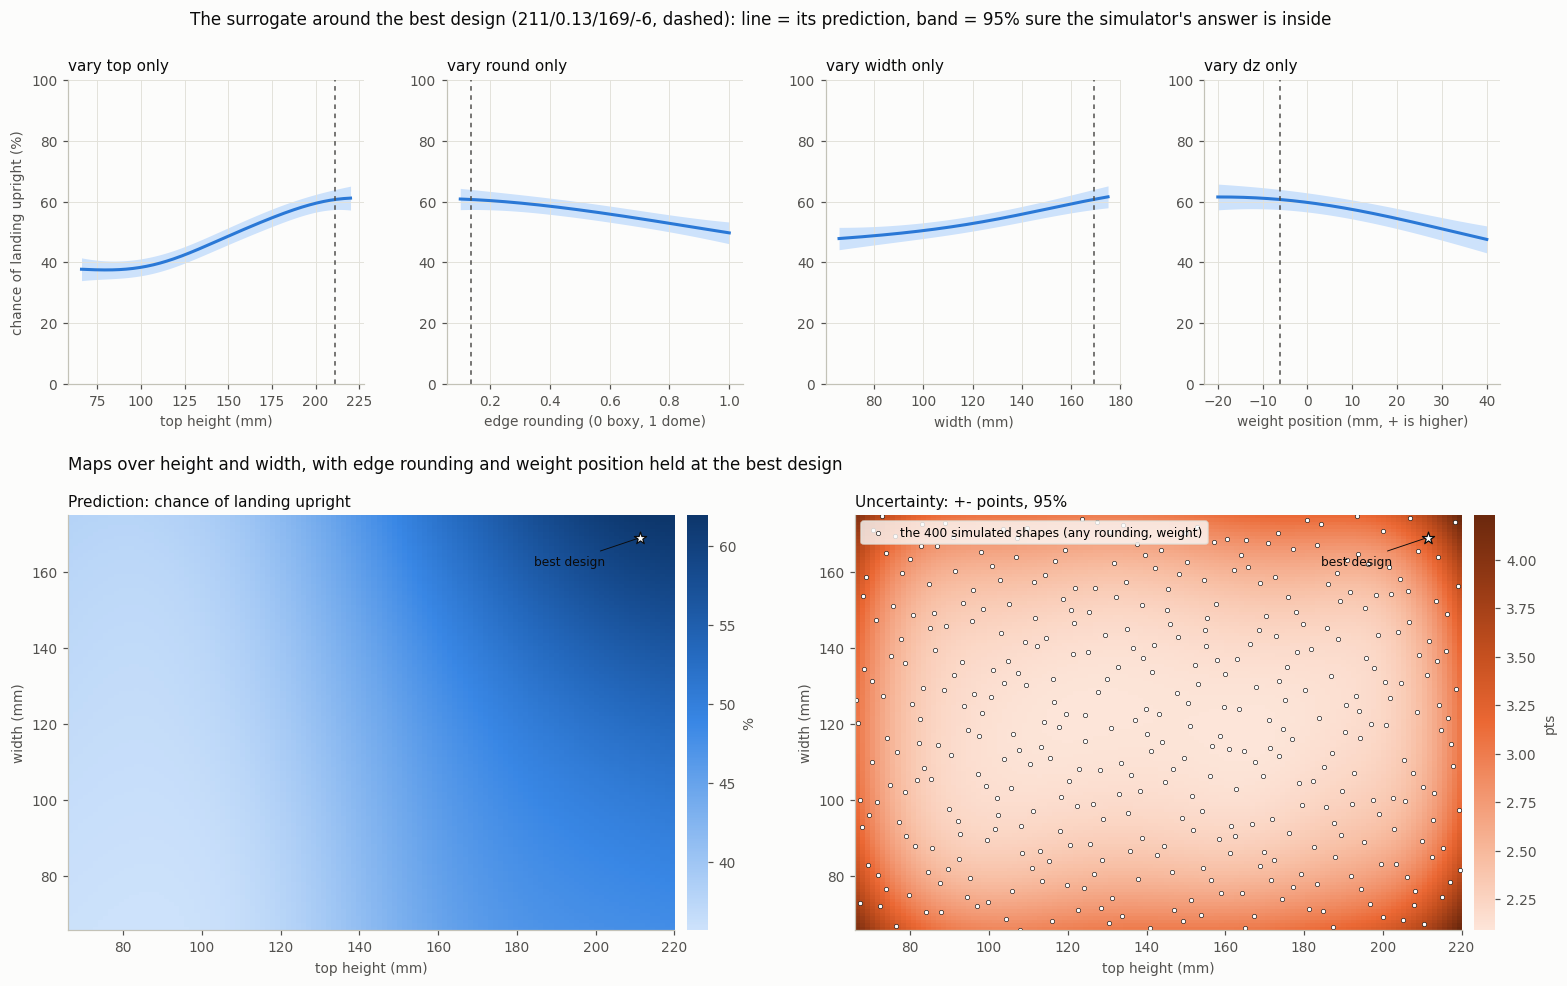
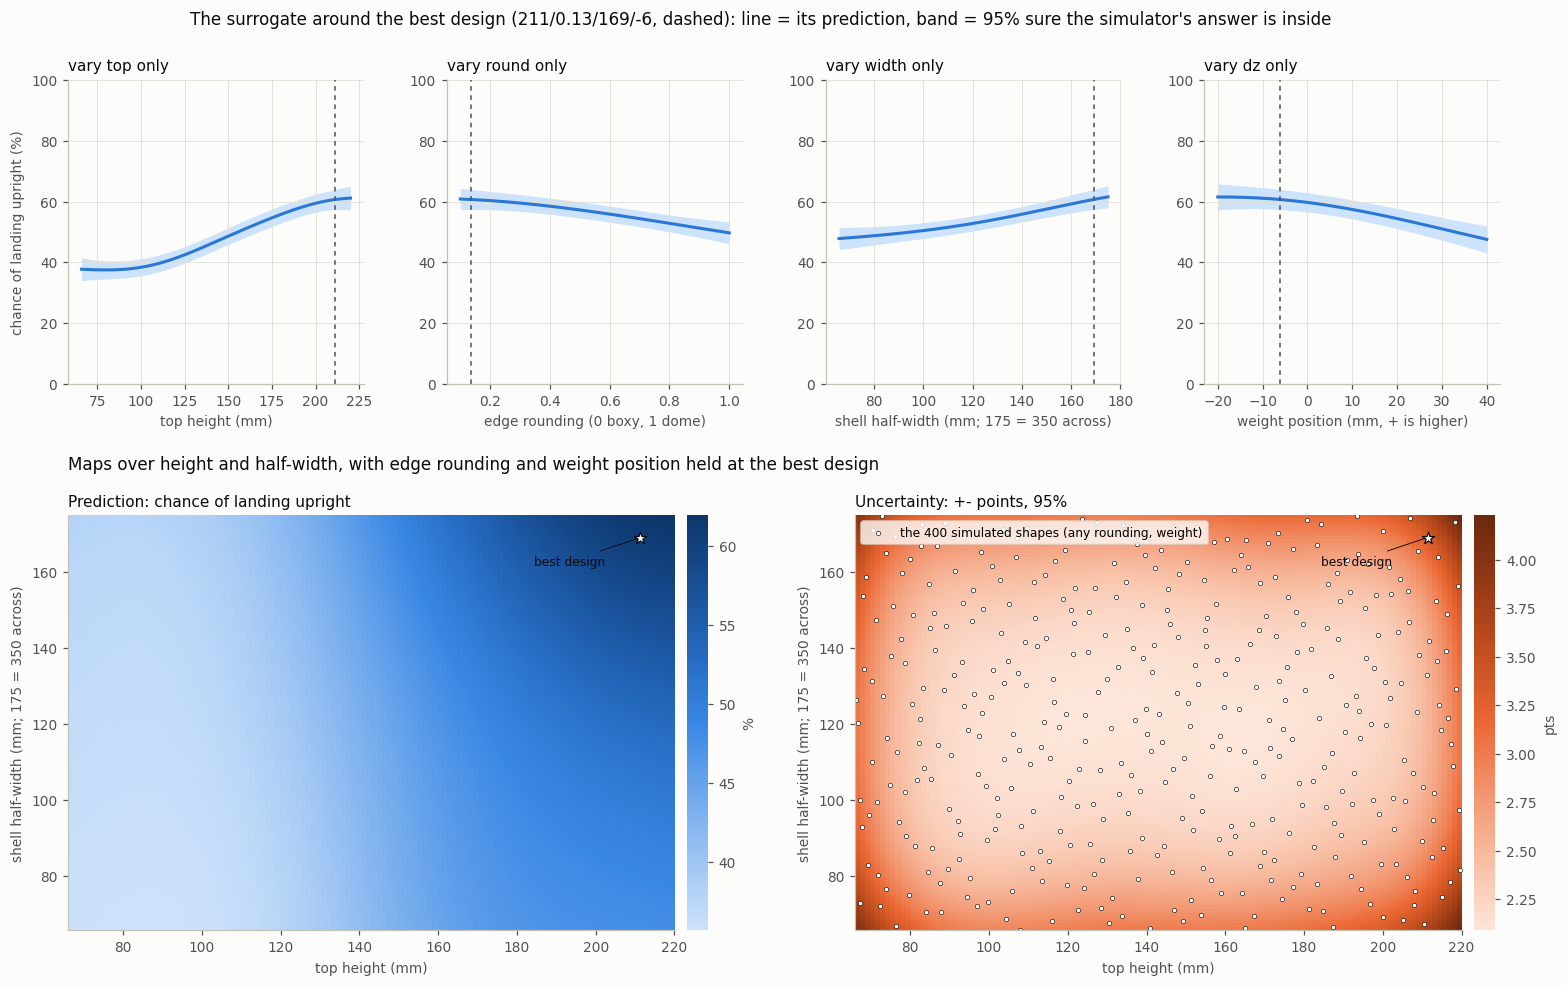
research (exploratory): the best design wider than the sweep allowed. P(upright) peaks at half-width 175-200 (0.68 with bounce) and falls past it (0.63 at 300-350): width removes side rests up to ~the body's length, then makes upside down more stable. The surrogate's extrapolation had the shape righ
Surrogate figure: "width" relabelled as the shell's half-width.

diff --git a/research/tumble/explore_wider.py b/research/tumble/explore_wider.py
@@ -1,0 +1,53 @@
+"""EXPLORATORY (2026-10-15): the best sweep design made wider than the sweep allowed (half-width past 175 mm).
+
+    python research/tumble/explore_wider.py -> research/results/explore_wider.json and .md
+
+The surrogate (surrogate_gp.py) put the best design in the corner of the searched range, with P(upright) still rising
+with width. This runs the simulator past the edge: the best design's top, round and dz, half-width 150-350 mm (the
+sweep stopped at 175: 350 mm across, wider than the 339.5 mm length), 1000 drops each, cover + bounce and cover + dead
+as in posthoc_sweep_v2. It also records what the surrogate guessed for each width before these runs, as a check of
+how it extrapolates.
+"""
+import os, sys, json
+for _v in ('OMP_NUM_THREADS', 'OPENBLAS_NUM_THREADS', 'MKL_NUM_THREADS'):
+    os.environ.setdefault(_v, '1')
+from multiprocessing import Pool
+import numpy as np
+HERE = os.path.dirname(os.path.abspath(__file__)); ROOT = os.path.abspath(os.path.join(HERE, '..'))
+sys.path.insert(0, HERE)
+WIDTHS = [150.0, 175.0, 200.0, 225.0, 250.0, 300.0, 350.0]
+VARIANTS = {'cover, bounce': ('cover', 0.2), 'cover, dead': ('cover', None)}
+
+
+def one(args):
+    import posthoc_sweep_v2 as PS
+    lab, w, x, mode, dr = args
+    return (lab, w), PS.one((0, x, 1000, mode, dr, 1.5, 777))
+
+
+if __name__ == '__main__':
+    import surrogate_gp as SG
+    D = json.load(open(os.path.join(ROOT, 'results', 'posthoc_sweep_v2.json')))['results']
+    best = D['cover, bounce']['top_confirmed'][0]['params']
+    jobs = [(lab, w, [best['top'], best['round'], w, best['dz']], mode, dr) for lab, (mode, dr) in VARIANTS.items() for w in WIDTHS]
+    guess = {}
+    for lab in VARIANTS:
+        v = D[lab]; g = SG.GP().fit(SG.scale([r['params'] for r in v['all']]), np.array([r['p_upright'] for r in v['all']]))
+        m, s = g.predict(SG.scale([dict(best, width=w) for w in WIDTHS])); s = np.sqrt(np.maximum(s ** 2 - g.sn2, 0))
+        guess[lab] = {w: (float(a), float(b)) for w, a, b in zip(WIDTHS, m, s)}
+    with Pool(len(jobs)) as pool:
+        R = dict(pool.map(one, jobs))
+    out = dict(best=best, runs={lab: [dict(half_width=w, across_mm=2 * w, p_upright=R[(lab, w)]['p_upright'], mass_g=R[(lab, w)]['mass_g'],
+                                           com_z=R[(lab, w)]['com_z'], counts=R[(lab, w)]['counts'], surrogate=round(guess[lab][w][0], 3),
+                                           surrogate_95=round(1.96 * guess[lab][w][1], 3)) for w in WIDTHS] for lab in VARIANTS})
+    json.dump(out, open(os.path.join(ROOT, 'results', 'explore_wider.json'), 'w'), indent=1)
+    L = ['# The best design, wider than the sweep allowed (exploratory)', '',
+         f"Top {best['top']:.0f} mm, round {best['round']:.2f}, dz {best['dz']:.0f} mm; only the shell's half-width changes. "
+         'The sweep stopped at half-width 175 (350 mm across; the robot is 339.5 mm long). 1000 drops each (sampling error about +-1.5 pts). '
+         'The surrogate column is what the Gaussian process predicted before these runs; past 175 it is extrapolating.', '']
+    for lab in VARIANTS:
+        L += [f'## {lab}', '', '| half-width (mm) | across (mm) | simulator P(upright) | surrogate guess | mass (g) | CoM height (mm) |', '|---|---|---|---|---|---|']
+        L += [f"| {r['half_width']:.0f} | {r['across_mm']:.0f} | {r['p_upright']:.3f} | {r['surrogate']:.3f} +- {r['surrogate_95']:.3f} | {r['mass_g']} | {r['com_z']} |"
+              for r in out['runs'][lab]] + ['']
+    open(os.path.join(ROOT, 'results', 'explore_wider.md'), 'w', encoding='utf-8').write('\n'.join(L) + '\n')
+    print('\n'.join(L))

diff --git a/research/tumble/surrogate_plot.py b/research/tumble/surrogate_plot.py
@@ -17,7 +17,7 @@ VARIANT = 'cover, bounce'
 BLUE, BAND, INK, MUTED, GRID, AXIS, SURF = '#2a78d6', '#cde2fb', '#0b0b0b', '#52514e', '#e1e0d9', '#c3c2b7', '#fcfcfb'
 BLUES = ['#cde2fb', '#9ec5f4', '#6da7ec', '#3987e5', '#256abf', '#184f95', '#0d366b']
 ORANGES = ['#fde5d9', '#f8bea3', '#f2946d', '#eb6834', '#c44f1f', '#963a15', '#6b280d']
-LABEL = {'top': 'top height (mm)', 'round': 'edge rounding (0 boxy, 1 dome)', 'width': 'width (mm)', 'dz': 'weight position (mm, + is higher)'}
+LABEL = {'top': 'top height (mm)', 'round': 'edge rounding (0 boxy, 1 dome)', 'width': 'shell half-width (mm; 175 = 350 across)', 'dz': 'weight position (mm, + is higher)'}
 
 if __name__ == '__main__':
     import matplotlib; matplotlib.use('Agg'); import matplotlib.pyplot as plt
@@ -47,7 +47,7 @@ if __name__ == '__main__':
              f"{best['params']['width']:.0f}/{best['params']['dz']:.0f}, dashed): line = its prediction, band = 95% sure the simulator's answer is inside",
              ha='center', color=INK, fontsize=11)
 
-    fig.text(0.05, 0.515, 'Maps over height and width, with edge rounding and weight position held at the best design', color=INK, fontsize=11)
+    fig.text(0.05, 0.515, 'Maps over height and half-width, with edge rounding and weight position held at the best design', color=INK, fontsize=11)
     nt, nw = 120, 120; T, Wd = np.meshgrid(np.linspace(0, 1, nt), np.linspace(0, 1, nw))
     Z = np.tile(xb, (nt * nw, 1)); Z[:, 0] = T.ravel(); Z[:, 2] = Wd.ravel()
     m, s = g.predict(Z); s = np.sqrt(np.maximum(s ** 2 - g.sn2, 0))

diff --git a/research/results/explore_wider.md b/research/results/explore_wider.md
@@ -1,0 +1,28 @@
+# The best design, wider than the sweep allowed (exploratory)
+
+Top 211 mm, round 0.13, dz -6 mm; only the shell's half-width changes. The sweep stopped at half-width 175 (350 mm across; the robot is 339.5 mm long). 1000 drops each (sampling error about +-1.5 pts). The surrogate column is what the Gaussian process predicted before these runs; past 175 it is extrapolating.
+
+## cover, bounce
+
+| half-width (mm) | across (mm) | simulator P(upright) | surrogate guess | mass (g) | CoM height (mm) |
+|---|---|---|---|---|---|
+| 150 | 300 | 0.588 | 0.575 +- 0.027 | 3710 | 54.9 |
+| 175 | 350 | 0.675 | 0.616 +- 0.036 | 3769 | 56.5 |
+| 200 | 400 | 0.680 | 0.643 +- 0.054 | 3829 | 57.9 |
+| 225 | 450 | 0.655 | 0.652 +- 0.076 | 3889 | 59.4 |
+| 250 | 500 | 0.637 | 0.646 +- 0.099 | 3949 | 60.8 |
+| 300 | 600 | 0.630 | 0.604 +- 0.137 | 4071 | 63.5 |
+| 350 | 700 | 0.633 | 0.549 +- 0.162 | 4194 | 66.0 |
+
+## cover, dead
+
+| half-width (mm) | across (mm) | simulator P(upright) | surrogate guess | mass (g) | CoM height (mm) |
+|---|---|---|---|---|---|
+| 150 | 300 | 0.565 | 0.550 +- 0.025 | 3710 | 54.9 |
+| 175 | 350 | 0.646 | 0.578 +- 0.033 | 3769 | 56.5 |
+| 200 | 400 | 0.644 | 0.600 +- 0.048 | 3829 | 57.9 |
+| 225 | 450 | 0.609 | 0.610 +- 0.068 | 3889 | 59.4 |
+| 250 | 500 | 0.586 | 0.610 +- 0.088 | 3949 | 60.8 |
+| 300 | 600 | 0.575 | 0.586 +- 0.125 | 4071 | 63.5 |
+| 350 | 700 | 0.582 | 0.547 +- 0.152 | 4194 | 66.0 |
+
